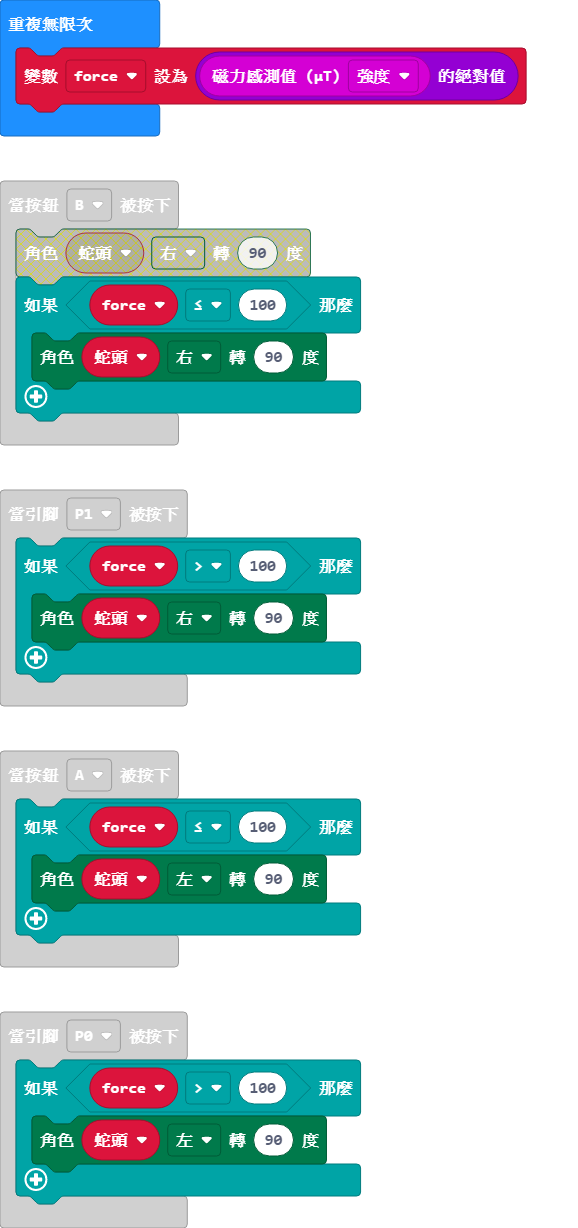
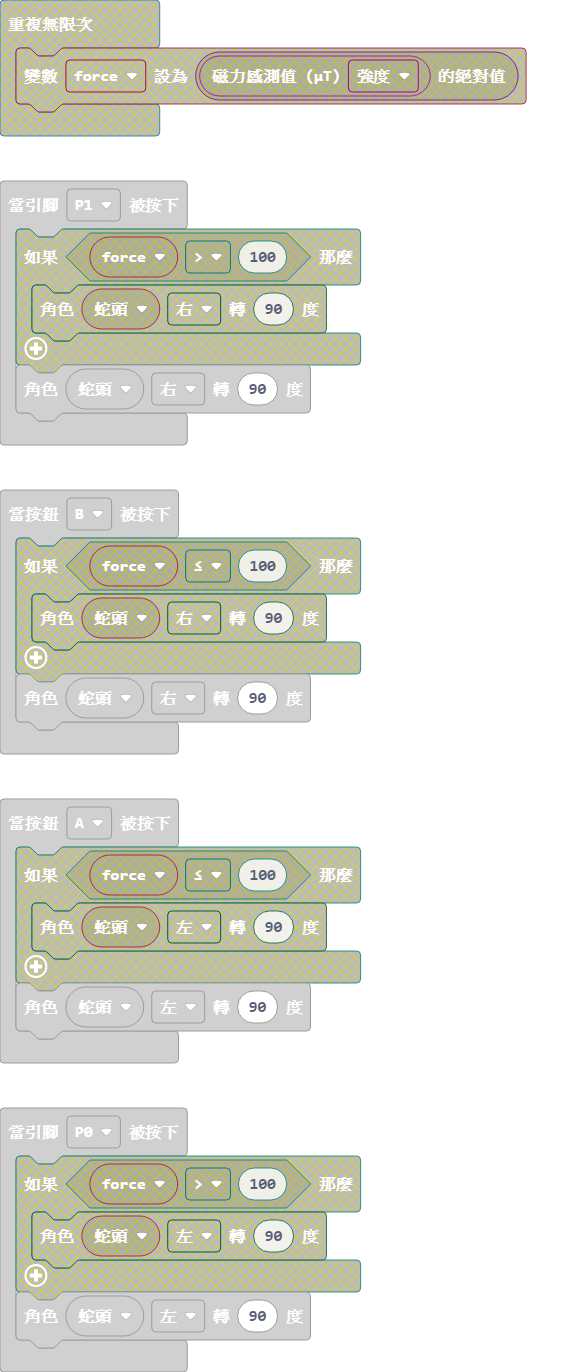
delite magnet test

diff --git a/main.ts b/main.ts
@@ -1,26 +1,17 @@
 input.onPinPressed(TouchPin.P0, function () {
-    if (force > 100) {
-        蛇頭.turn(Direction.Left, 90)
-    }
+    蛇頭.turn(Direction.Left, 90)
 })
 input.onButtonPressed(Button.A, function () {
-    if (force <= 100) {
-        蛇頭.turn(Direction.Left, 90)
-    }
+    蛇頭.turn(Direction.Left, 90)
 })
 input.onButtonPressed(Button.B, function () {
-    if (force <= 100) {
-        蛇頭.turn(Direction.Right, 90)
-    }
+    蛇頭.turn(Direction.Right, 90)
 })
 input.onPinPressed(TouchPin.P1, function () {
-    if (force > 100) {
-        蛇頭.turn(Direction.Right, 90)
-    }
+    蛇頭.turn(Direction.Right, 90)
 })
 let i = 0
 let 蛇身各節: game.LedSprite[] = []
-let force = 0
 let 蛇頭: game.LedSprite = null
 蛇頭 = game.createSprite(1, 2)
 let 水果 = game.createSprite(randint(0, 4), randint(0, 4))
@@ -30,9 +21,6 @@ let 蛇X陣列 = [1]
 let 蛇Y陣列 = [2]
 let 蛇身長度 = 0
 game.setScore(0)
-basic.forever(function () {
-    force = Math.abs(input.magneticForce(Dimension.Strength))
-})
 basic.forever(function () {
     if (蛇頭.isTouching(水果)) {
         game.addScore(1)
